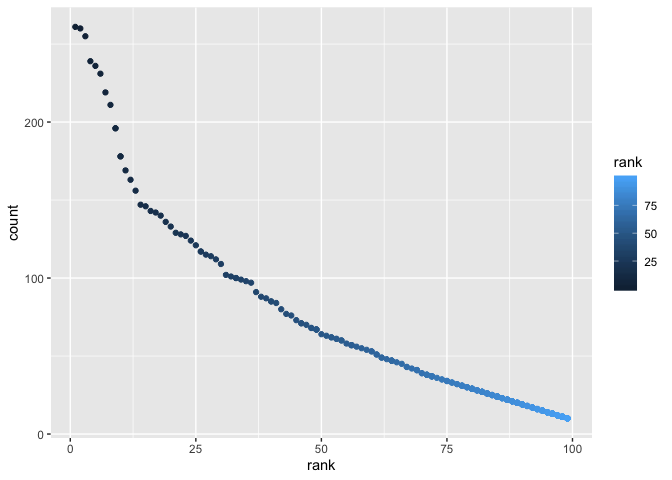
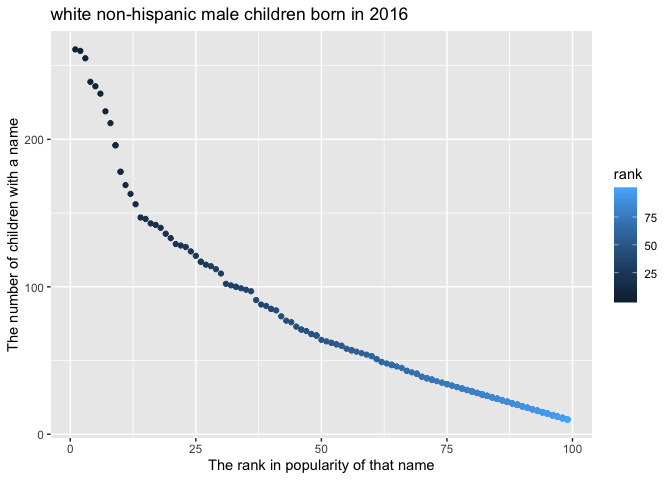
revision

diff --git a/p8105_hw2_rw2708.md b/p8105_hw2_rw2708.md
@@ -332,7 +332,11 @@ male_white_nonhis = filter(baby_names, gender == "male", ethnicity == "white non
 #Produce a scatter plot showing the number of children with a name (y axis) against the rank in popularity of that name (x axis)
 scatter <- 
   ggplot(male_white_nonhis,aes(x = rank, y = count, color = rank)) + 
-  geom_point()
+  geom_point() +
+  labs(
+    title = "white non-hispanic male children born in 2016",
+    x = "The rank in popularity of that name",
+    y = "The number of children with a name")
 
 scatter
 ```
